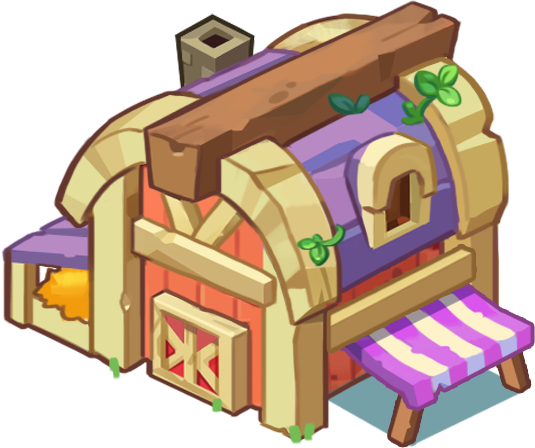
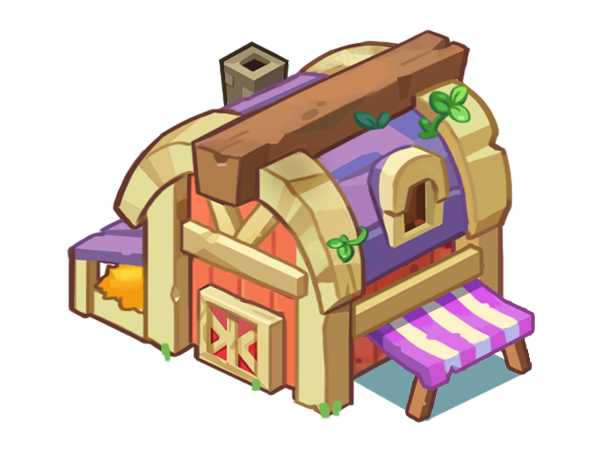
update x

diff --git a/src/game/assets/buildings.ts b/src/game/assets/buildings.ts
@@ -18,9 +18,9 @@ export const buildingAssetMap: Record<BuildingId, BuildingAssetData> = {
         tilesetConfig: {
             gid: 12001,
             tilesetName: "buildings-home",
-            scaleTextureHeight: 0.8,
-            scaleTextureWidth: 0.8,
-            extraOffsets: { x: -70, y: -120 },
+            //scaleTextureHeight: 0.8,
+            //scaleTextureWidth: 0.8,
+            //extraOffsets: { x: -70, y: -120 },
             sizeX: 3,
             sizeY: 3,
         },
@@ -37,7 +37,7 @@ export const buildingAssetMap: Record<BuildingId, BuildingAssetData> = {
             tilesetName: "buildings-coop",
             // scaleTextureHeight: 1.2,
             // scaleTextureWidth: 1.2,
-            extraOffsets: { x: 0, y: -80 },
+            //extraOffsets: { x: 0, y: -80 },
             sizeX: 3,
             sizeY: 3,
         },
@@ -52,9 +52,9 @@ export const buildingAssetMap: Record<BuildingId, BuildingAssetData> = {
         tilesetConfig: {
             gid: 12003,
             tilesetName: "buildings-barn",
-            scaleTextureHeight: 0.8,
-            scaleTextureWidth: 0.8,
-            extraOffsets: { x: -70, y: -120 },
+            //scaleTextureHeight: 0.8,
+            //scaleTextureWidth: 0.8,
+            //extraOffsets: { x: -70, y: -120 },
             sizeX: 3,
             sizeY: 3,
         },

diff --git a/src/game/scenes/UIScene.ts b/src/game/scenes/UIScene.ts
@@ -46,9 +46,9 @@ export class UIScene extends Scene {
         this.add.existing(modalManager)
         
         //add the tutorial manager
-        const tutorialManager = new TutorialManager({
-            scene: this
-        })
-        this.add.existing(tutorialManager)
+        // const tutorialManager = new TutorialManager({
+        //     scene: this
+        // })
+        // this.add.existing(tutorialManager)
     }
 }
